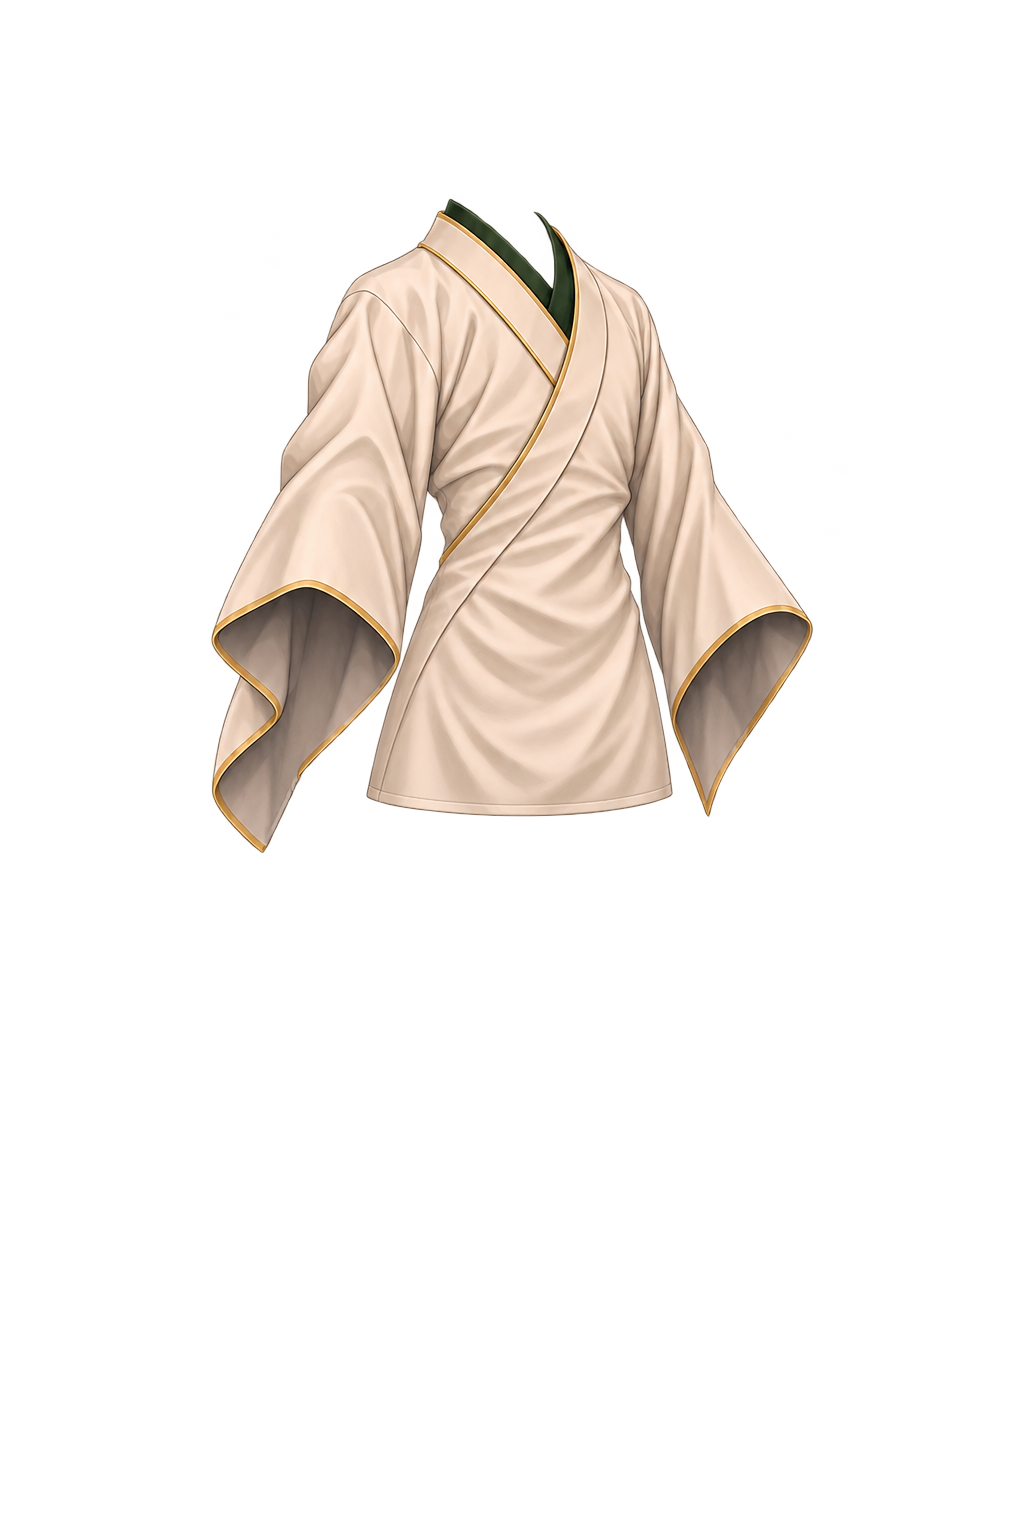
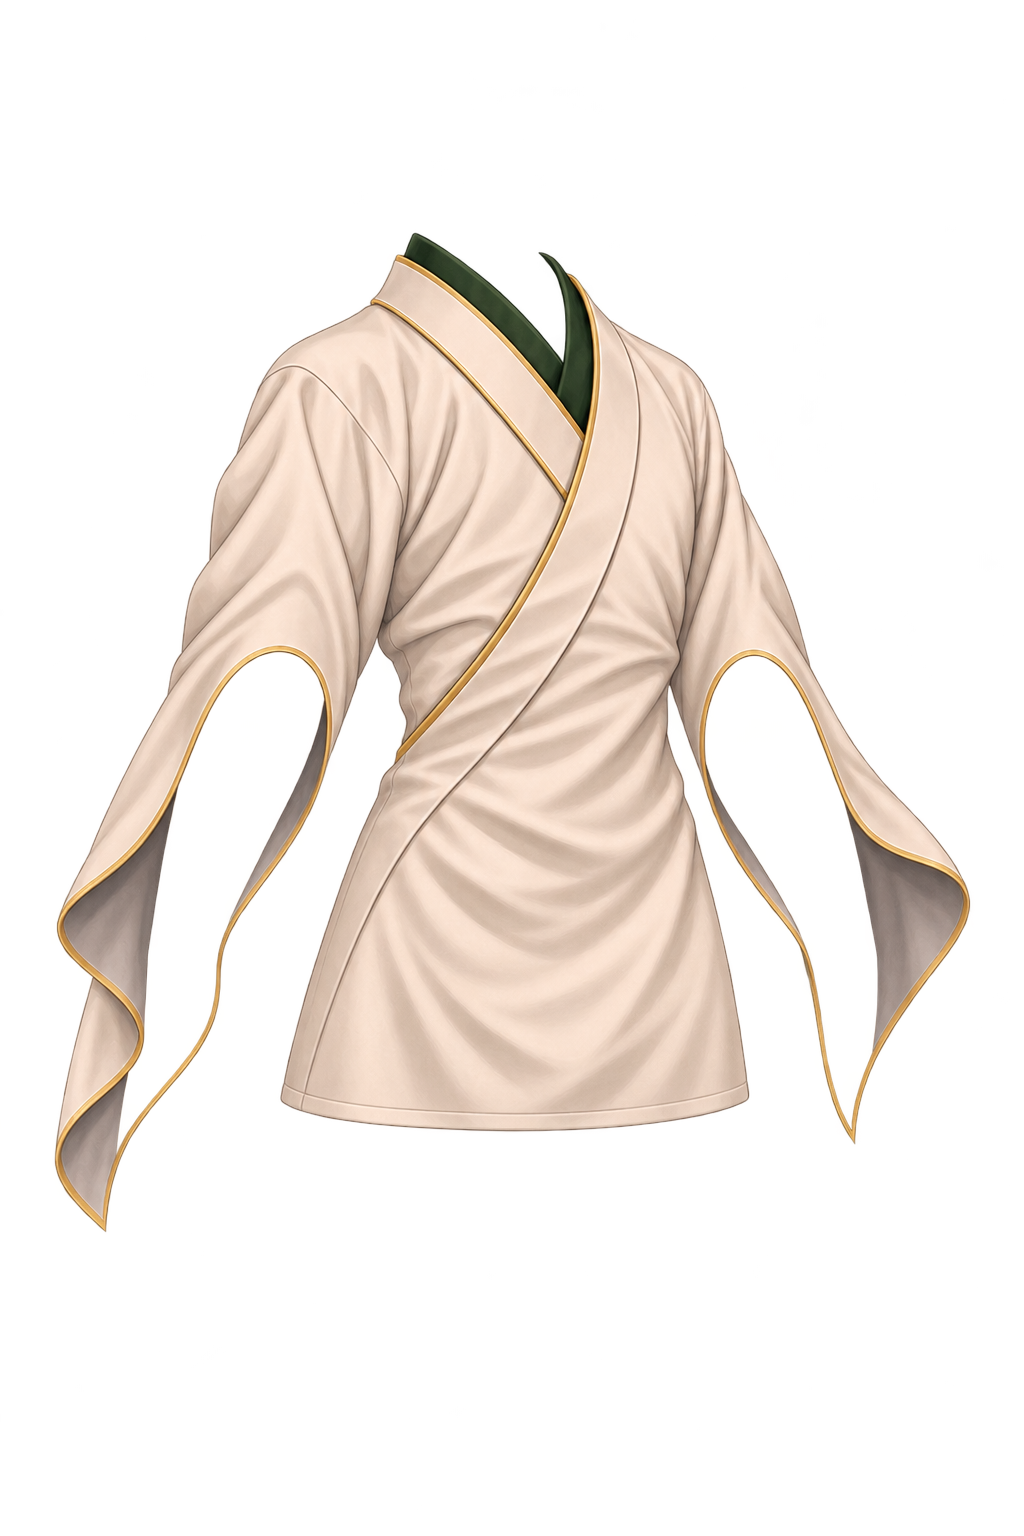
Correct transparent forearm channels and test armor/sleeve fit

Changed region(s): [[0.0312, 0.125, 0.9688, 0.8125], [0.1875, 0.625, 0.2188, 0.6875]]

diff --git a/docs/STATUS.md b/docs/STATUS.md
@@ -208,3 +208,5 @@ Prototyp für diese Pose visuell geprüft, keine universelle Produktionsfreigabe
 Grundkleidung in Gewand, Hakama, Obi und Schuhe sowie Frisur in Vorder-/Hinterhaare als sechs eigenständige transparente PNGs neu gezeichnet. Vollständiger Körperunterbau bleibt bytegleich. Vertrag v3 registriert sieben Ebenen mit festen IDs/Hashes/Positionen. Hinterhaare liegen hinter dem Körper, Vorderhaare auf gesondertem Canvas vor der Ausrüstung. Keine Teilgrafik wird durch Auswahl einer anderen still entfernt. Die ehemaligen gemeinsamen Haar-/Kleiderbilder bleiben als Referenzen erhalten.
 
 Drei Schnellansichten und sieben einzelne Schalter im Atelier. Alle 128 Basisauswahlen als Unitfälle geprüft, weiterhin 222 lokale Regressionen erfolgreich. Erweiterter Chromiumlauf für 128 reale UI-Auswahlen, Schnellansichten, beschädigte erforderliche PNG-Datei und unveränderte 32 Rewardkombinationen vorbereitet; aktuelle Browser-/Sichtabnahme noch ausstehend. Basisdateien nun 5.99 MB plus 9.38 MB Rüstungsprototypen; kein Produktionsbudget akzeptiert. Live-App, Nutzerdaten, Cache und Schema unverändert.
+
+Erster siebenlagiger Chromiumlauf für dc16d9b8 technisch erfolgreich (41516918584). Sichtung deckt verdeckte Unterarme mit darüber schwebenden Armschienen auf. Gewand daraufhin neu gezeichnet mit transparenten Unterarmkanälen, nach Generierungsvergrößerung seitenverhältnistreu auf dieselben Zielkonturen registriert. Neue Browserassertion prüft vier tatsächliche Unterarmpunkte gegen erneute Verdeckung. Erneute Sichtabnahme erforderlich.
